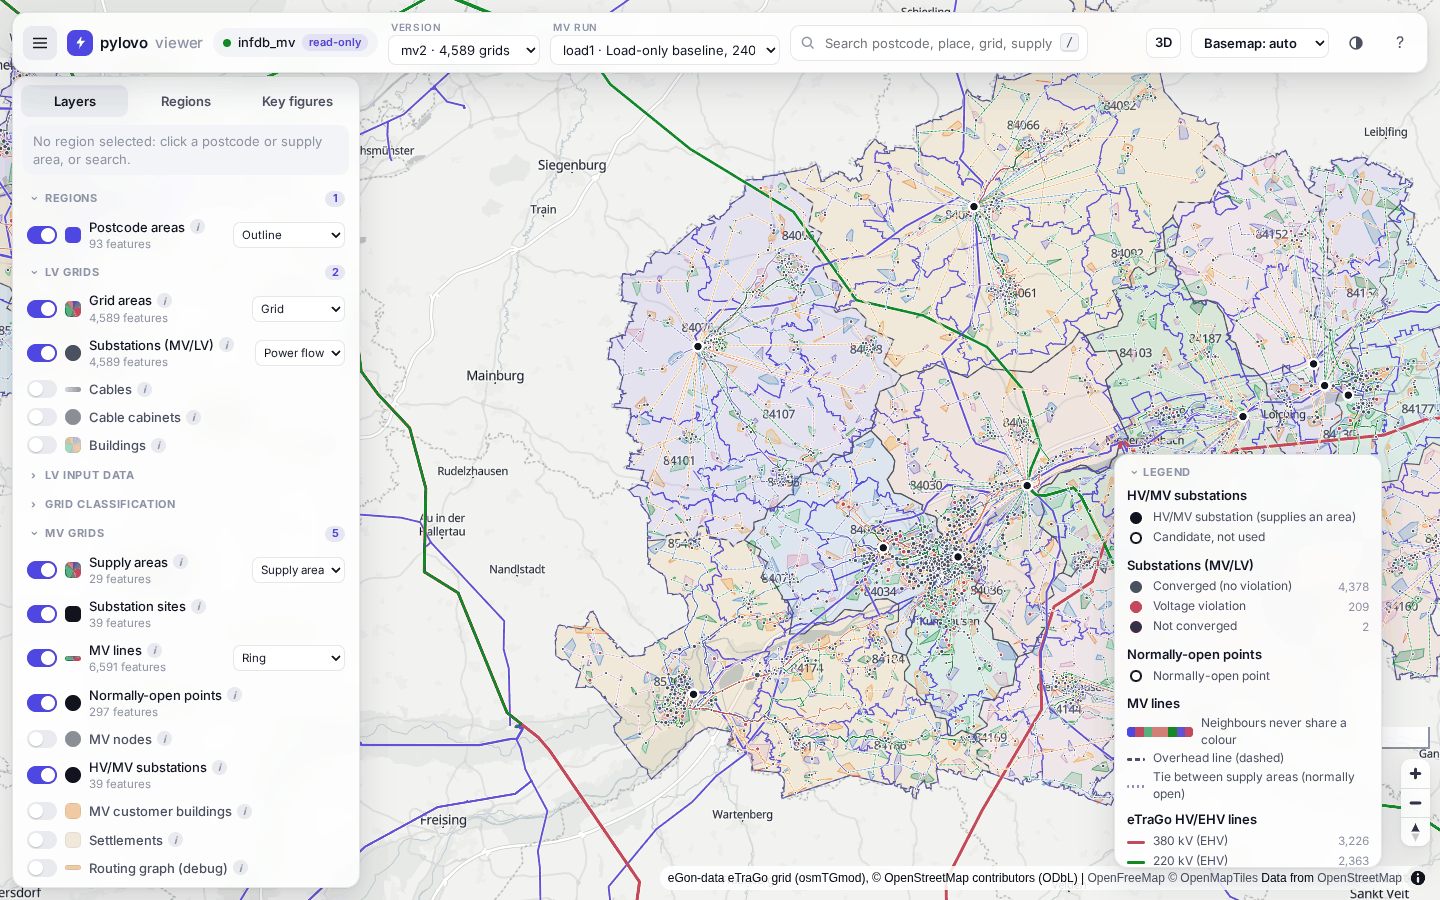
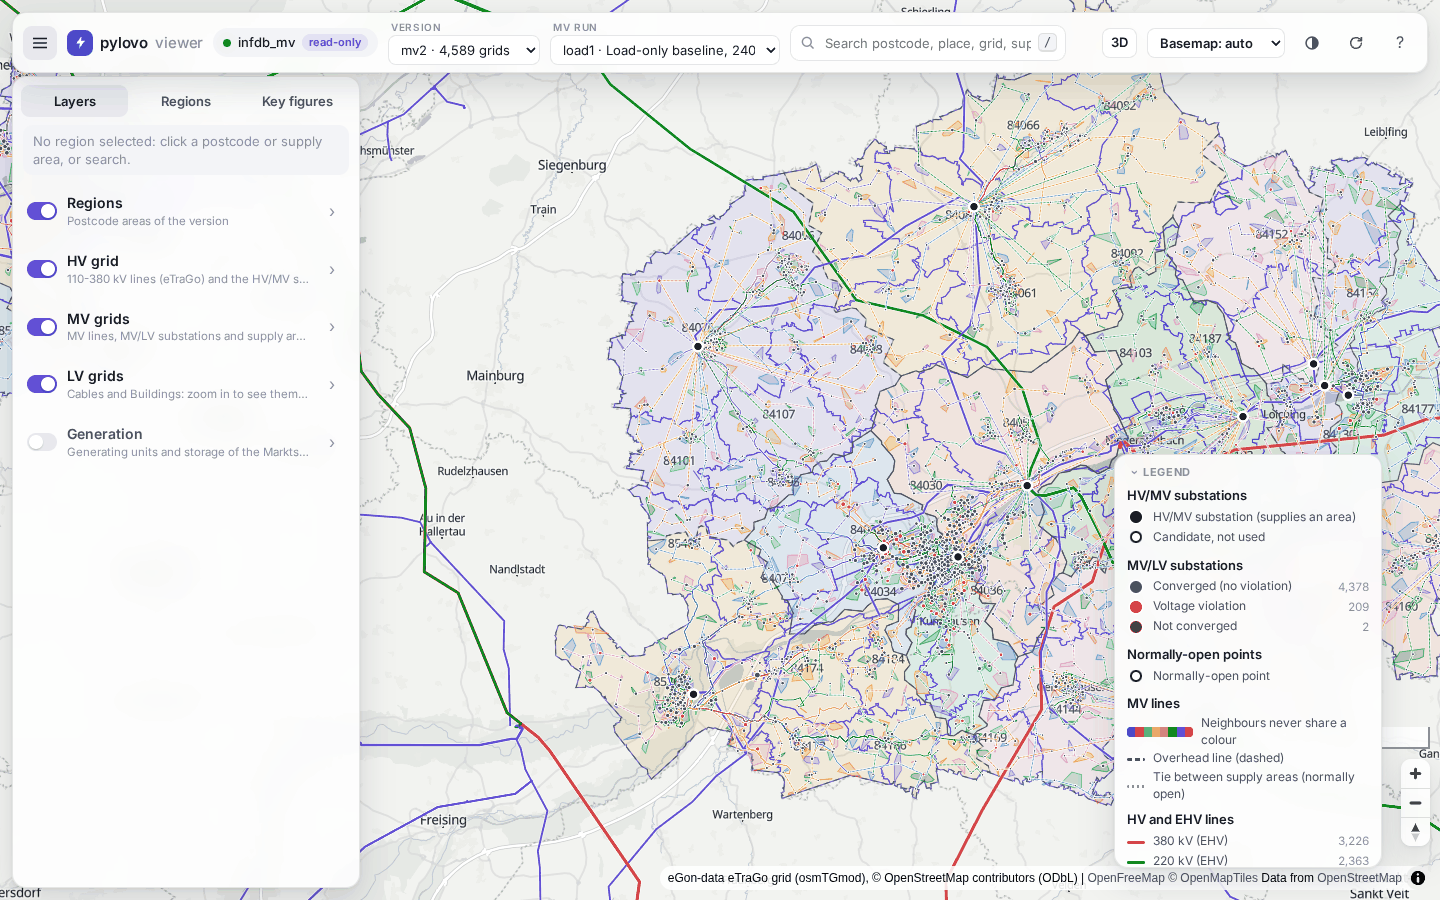
Document the grouped viewer layers

diff --git a/docs/source/user_guide/viewer.rst b/docs/source/user_guide/viewer.rst
@@ -1,9 +1,9 @@
 Map viewer
 ==========
 
-``pylovo-viewer`` shows the database of your ``.env`` as an interactive map in the browser: the LV
-grids of a version, the MV grids of an MV run, their input data and the German high-voltage grid as
-context. It is the quick alternative to the QGIS templates (:doc:`exporting_visualising`). It only
+``pylovo-viewer`` shows the database of your ``.env`` as an interactive map in the browser: the
+German high-voltage grid, the MV grids of an MV run, the LV grids of a version and the generating
+units. It is the quick alternative to the QGIS templates (:doc:`exporting_visualising`). It only
 reads: every query runs in a read-only transaction, and the viewer never creates, migrates or resets
 anything. For setup, generation and editing use GridPlanner (:doc:`browser_ui`).
 
@@ -57,11 +57,14 @@ Working with the map
 **Version and MV run.** The top bar selects the LV version and, if the version has MV results, the
 MV run (:doc:`mv_grids`). The newest ones are preselected.
 
+**One switch per level.** The *Layers* tab has one switch each for the HV grid, the MV grids, the LV
+grids and the generation. The arrow next to a level opens its single layers, their colour modes and
+an *i* with each layer's source. LV cables and buildings appear when you zoom in (from zoom 13).
+
 **Regions.** Click a postcode or an MV supply area on the map, pick one in the *Regions* tab, or
 search: postcode, place name, municipality key (AGS), grid id, supply area or substation name and
-building ``objectid`` all work. The map flies to the region and loads its cables, buildings and
-cable cabinets; the *Key figures* tab follows the selection. Without a region, these layers load for
-the map view from zoom 14 on. Selecting an MV supply area loads the LV grids of all its stations.
+building ``objectid`` all work. The map flies to the region and marks it, and the *Key figures* tab
+shows its numbers.
 
 **Identify.** Hover over a feature for a short tooltip. Click it for the inspector: its key facts,
 actions (*Zoom to*, *Show this LV grid*, *Show supply area*) and *All attributes*, the full database
@@ -69,14 +72,14 @@ row as in QGIS' identify tool. When several features overlap, the inspector list
 
 **Colours and legend.** Layers with several colour modes have a small menu next to their name
 (for example cables by type, feeder, grid or feeder/service). The legend shows the categories of
-the loaded data with their counts. The *i* next to a layer explains it and names its source table.
+the loaded data with their counts.
 
 **3D.** The *3D* button tilts the map and extrudes the buildings by their height. With a
-``citydb`` schema (3DCityDB v5, see :doc:`input_data`) the buildings of the selected region are
-drawn as their LoD2 models with roofs and walls (up to 5,000 buildings).
+``citydb`` schema (3DCityDB v5, see :doc:`input_data`) the buildings in view are drawn as their LoD2
+models with roofs and walls from zoom 15 (up to 5,000 buildings).
 
-**Sharing a view.** The address bar keeps version, MV run, region, layers, colour modes, basemap and
-camera, so a view can be bookmarked or sent. Keys: ``/`` search, ``3`` 3D, ``L`` layer panel,
+**Sharing a view.** The address bar keeps version, MV run, region, levels, layers, colour modes,
+basemap and camera, so a view can be bookmarked or sent. Keys: ``/`` search, ``3`` 3D, ``L`` layer panel,
 ``Esc`` close the inspector and then clear the region, ``?`` help.
 
 .. figure:: /images/viewer/viewer-lod2.png
@@ -89,67 +92,50 @@ camera, so a view can be bookmarked or sent. Keys: ``/`` search, ``3`` 3D, ``L``
 Layers
 ------
 
-A layer whose tables are missing or empty in the database is greyed out with the reason, so one
-viewer works with any pylovo database.
+Every substation belongs to the level of its higher voltage: the HV/MV substations to the HV grid,
+the MV/LV substations to the MV grids. A layer whose tables are missing or empty in the database is
+greyed out with the reason, so one viewer works with any pylovo database.
 
 .. list-table::
    :header-rows: 1
-   :widths: 18 26 56
+   :widths: 16 24 60
 
-   * - Group
+   * - Level
      - Layer
      - Source and content
    * - Regions
      - Postcode areas
      - ``pylovo.postcode_result``: postcodes of the version with the number of grids; settlement
        type as colour mode.
+   * - HV grid
+     - HV and EHV lines
+     - The 110, 220 and 380 kV grid of Germany from eGon-data (see below).
+   * -
+     - HV/MV substations
+     - ``pylovo.mv_substation`` of the MV run with their site outlines; candidates the run did not use
+       are hollow.
+   * - MV grids
+     - MV lines
+     - ``pylovo.mv_line``: rings, stubs and dedicated feeders by ring, kind, role or loading, with the
+       normally-open points; overhead lines dashed, ties between supply areas dotted.
+   * -
+     - MV/LV substations
+     - ``pylovo.grid_result`` and ``transformer_positions``, with the MV ring and voltage of the
+       station from ``pylovo.mv_node`` when an MV run is selected. Converged stations are neutral, so
+       LV grids with voltage violations stand out.
+   * -
+     - Supply areas, MV customers
+     - ``pylovo.mv_grid`` (areas cut by the region border have a dashed outline) and
+       ``pylovo.mv_customers``.
    * - LV grids
      - Grid areas
      - Convex hull of the buildings of every grid of the version.
    * -
-     - Substations (MV/LV)
-     - ``pylovo.grid_result`` and ``transformer_positions``: size in kVA; grids with voltage
-       violations or without a converged power flow stand out.
-   * -
-     - Cables
-     - ``pylovo.lines_result_cache``: feeder and service cables, drawn side by side where they
-       share a trench. Feeders are numbered from the station along the cables, 1 being the
-       longest.
-   * -
-     - Cable cabinets, Buildings
-     - ``pylovo.split_points`` and ``pylovo.buildings_result``.
-   * - LV input data
-     - InfDB buildings, Transformer candidates, Streets, House connection lines
-     - The inputs of the generation: ``buildings``, ``ways_per_connection`` and ``connection_lines``
-       of the InfDB source schema, and ``pylovo.transformers``.
-   * - Grid classification
-     - Grid clusters
-     - ``pylovo.transformer_classified`` (``pylovo-classify``); representative grids are ringed.
-   * - MV grids
-     - Supply areas, HV/MV substations, Substation sites
-     - ``pylovo.mv_grid`` and ``mv_substation`` of the MV run; areas cut by the region border have a
-       dashed outline.
-   * -
-     - MV lines, Normally-open points
-     - ``pylovo.mv_line``: rings, stubs and dedicated feeders by ring, kind, role or loading;
-       overhead lines dashed, ties between supply areas dotted.
-   * -
-     - MV nodes, MV customer buildings
-     - ``pylovo.mv_node`` (busbars, stations, MV customers, generators, joints) and
-       ``pylovo.mv_customers``.
-   * -
-     - Settlements, Routing graph
-     - ``pylovo.mv_graph_settlement`` and ``mv_graph_edge`` of the run, for checking the routing.
-   * - Grid context
-     - eTraGo HV/EHV lines and buses
-     - The 110, 220 and 380 kV grid of Germany from eGon-data (see below).
-   * -
-     - eGon MV grid districts, eGon HV/MV substations
-     - ``egon_mv_grid_district`` and ``egon_hvmv_substation`` of the InfDB open-data schema.
-   * -
-     - OSM power lines, OSM substations
-     - ``infrastructure_line`` and ``infrastructure_polygon`` of the InfDB OSM schema, by voltage.
-   * -
+     - Cables, Buildings
+     - ``pylovo.lines_result_cache`` with the cable cabinets of ``pylovo.split_points``, and
+       ``pylovo.buildings_result``, for the map view from zoom 13. Feeders are numbered from the
+       station along the cables, 1 being the longest.
+   * - Generation
      - MaStR units
      - ``pylovo.mastr_units`` (``pylovo-import mastr``) by technology or grid level.
 
@@ -160,8 +146,8 @@ width.
 The German high-voltage grid (eTraGo)
 -------------------------------------
 
-The context layers *eTraGo HV/EHV lines* and *buses* show the grid of eGon-data's eTraGo model:
-the AC buses and lines at 380, 220 and 110 kV in Germany, in PyPSA format, built by osmTGmod from
+The layer *HV and EHV lines* shows the grid of eGon-data's eTraGo model: the AC lines at 380, 220
+and 110 kV in Germany, in PyPSA format, built by osmTGmod from
 OpenStreetMap (2021) and published on the Open Energy Platform. Download it once (about 40 s,
 9 MB of GeoJSON in ``--data-dir``):
 
@@ -183,8 +169,8 @@ attribution.
 Data and limits
 ---------------
 
-* Data travel as GeoJSON per region (postcode, MV supply area, grid), per MV run or for the map
-  view, gzipped. A layer returns at most 60,000 features per request and says so when it is cut.
+* Data travel as GeoJSON per version, per MV run or for the map view, gzipped. A layer returns at
+  most 60,000 features per request and says so when it is cut.
 * The server keeps loaded data in memory. After a new generation or MV run, the reload button in
   the top bar reads everything from the database again.
 * The browser loads MapLibre GL JS, Vue, the fonts and the basemaps (OpenFreeMap, OpenStreetMap)

diff --git a/CHANGELOG.md b/CHANGELOG.md
@@ -10,7 +10,7 @@ The format is based on [Keep a Changelog](https://keepachangelog.com/en/1.0.0/).
 
 ## [Unreleased]
 ### Added
-- Map viewer `pylovo-viewer` (`viewer/`, extra `viewer`): a read-only browser map of the database in the `.env`, as an alternative to the QGIS templates. It shows the LV grids of a version, the MV grids of an MV run, the LV input data, the classification, eGon, OSM power and MaStR context layers and the 110-380 kV eTraGo grid of Germany (`pylovo-viewer fetch etrago`). Regions by postcode, MV supply area or grid, a search, identify with all database attributes, colour modes with a legend, key figures, shareable views in the URL and 3D buildings (LoD2 from `citydb`, else extruded footprints). Every query runs in a read-only transaction. Documented in `user_guide/viewer`
+- Map viewer `pylovo-viewer` (`viewer/`, extra `viewer`): a read-only browser map of the database in the `.env`, as an alternative to the QGIS templates. One switch per level shows the HV grid (110-380 kV lines of eTraGo, `pylovo-viewer fetch etrago`, and the HV/MV substations), the MV grids of an MV run (lines, open points, MV/LV substations with their MV data, supply areas, MV customers), the LV grids of a version (grid areas, and cables and buildings when zoomed in) and the MaStR units. Regions by postcode, MV supply area or grid with key figures, a search, identify with all database attributes, colour modes with a legend, shareable views in the URL and 3D buildings (LoD2 from `citydb`, else extruded footprints). Every query runs in a read-only transaction. Documented in `user_guide/viewer`
 - HTTP API `pylovo-api` (`api/`, extra `api`, image `ghcr.io/tum-ens/pylovo`) for the GridPlanner browser UI: database setup, region input check, transformer editing and imports, configuration editing with backups, generation, analysis and export jobs with live logs, statistics, grid details, an on-demand power flow, diagnostics and load editing
 - `pylovo.load_editing` and the audit table `pylovo.load_edit`: edit the building loads of stored grids
 - `pylovo.feeder_planning`: feeder branch planning and feeder cable sizing as a separate module

diff --git a/README.rst b/README.rst
@@ -83,9 +83,10 @@ them. All commands and options are described in the
 Map viewer
 ----------
 
-``pylovo-viewer`` shows the database of your ``.env`` as an interactive map: LV grids, MV grids,
-their input data and the 110-380 kV grid of Germany (eTraGo), with all attributes on click, colour
-modes, a legend, key figures and 3D LoD2 buildings. It only reads the database. See the
+``pylovo-viewer`` shows the database of your ``.env`` as an interactive map with one switch per
+level: the 110-380 kV grid of Germany (eTraGo), the MV grids, the LV grids and the MaStR units, with
+all attributes on click, colour modes, a legend, key figures and 3D LoD2 buildings. It only reads the
+database. See the
 `map viewer guide <https://pylovo.readthedocs.io/en/latest/user_guide/viewer.html>`_.
 
 .. code-block:: bash
